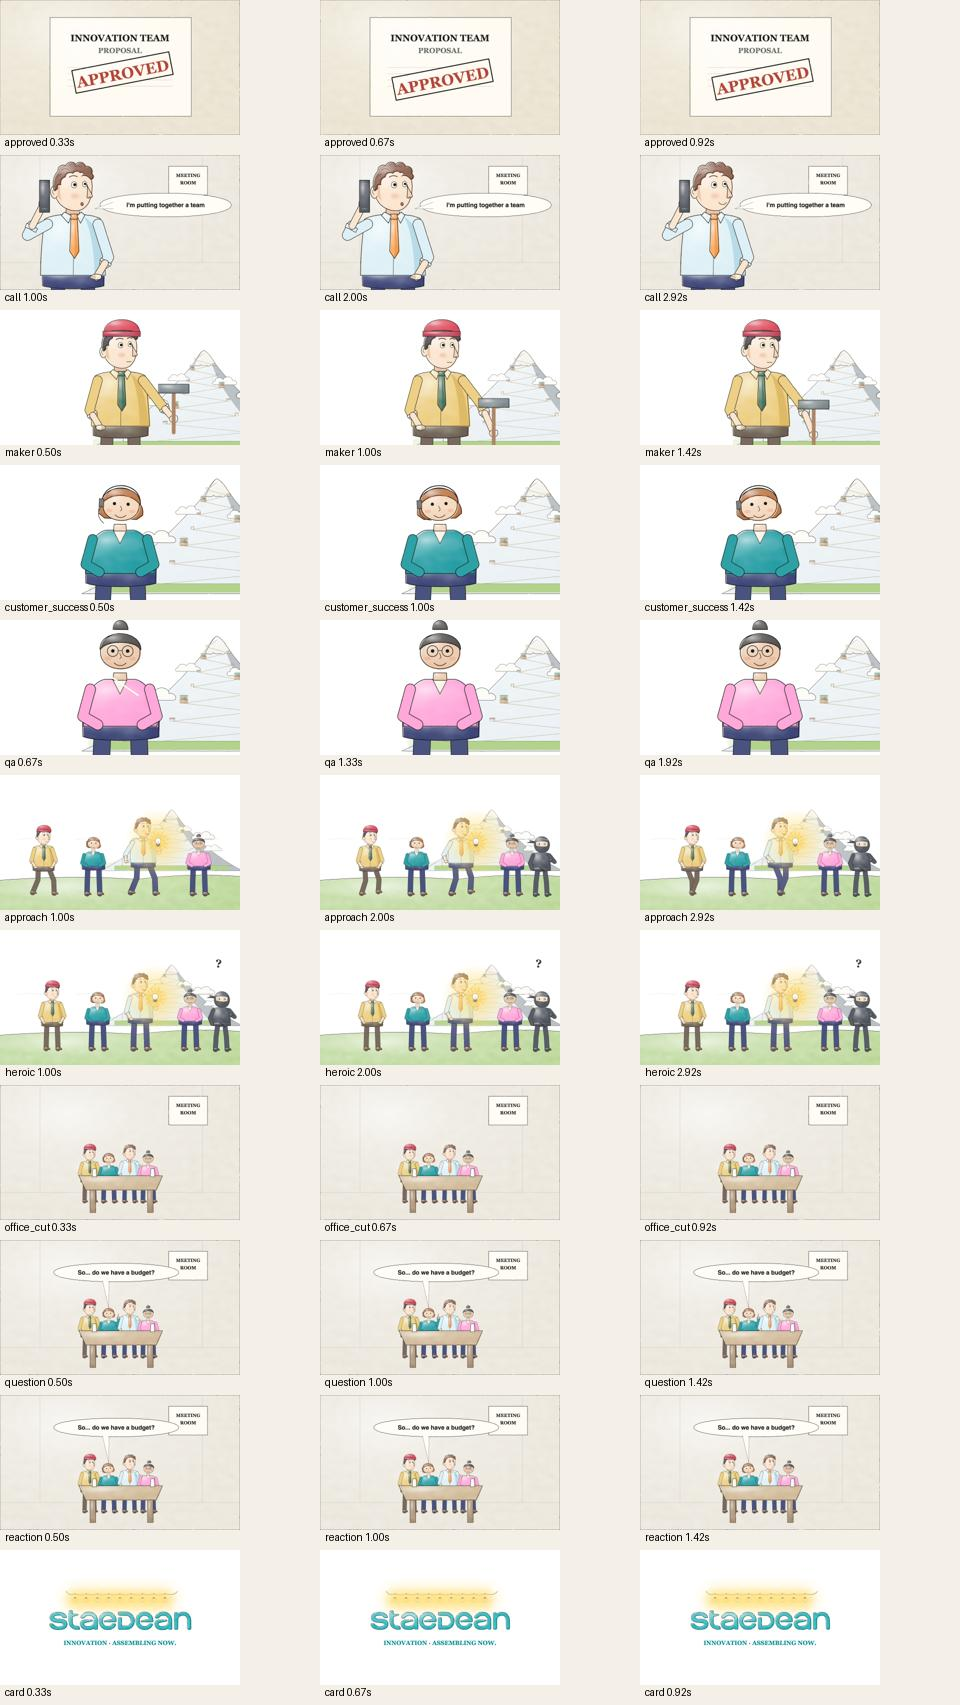
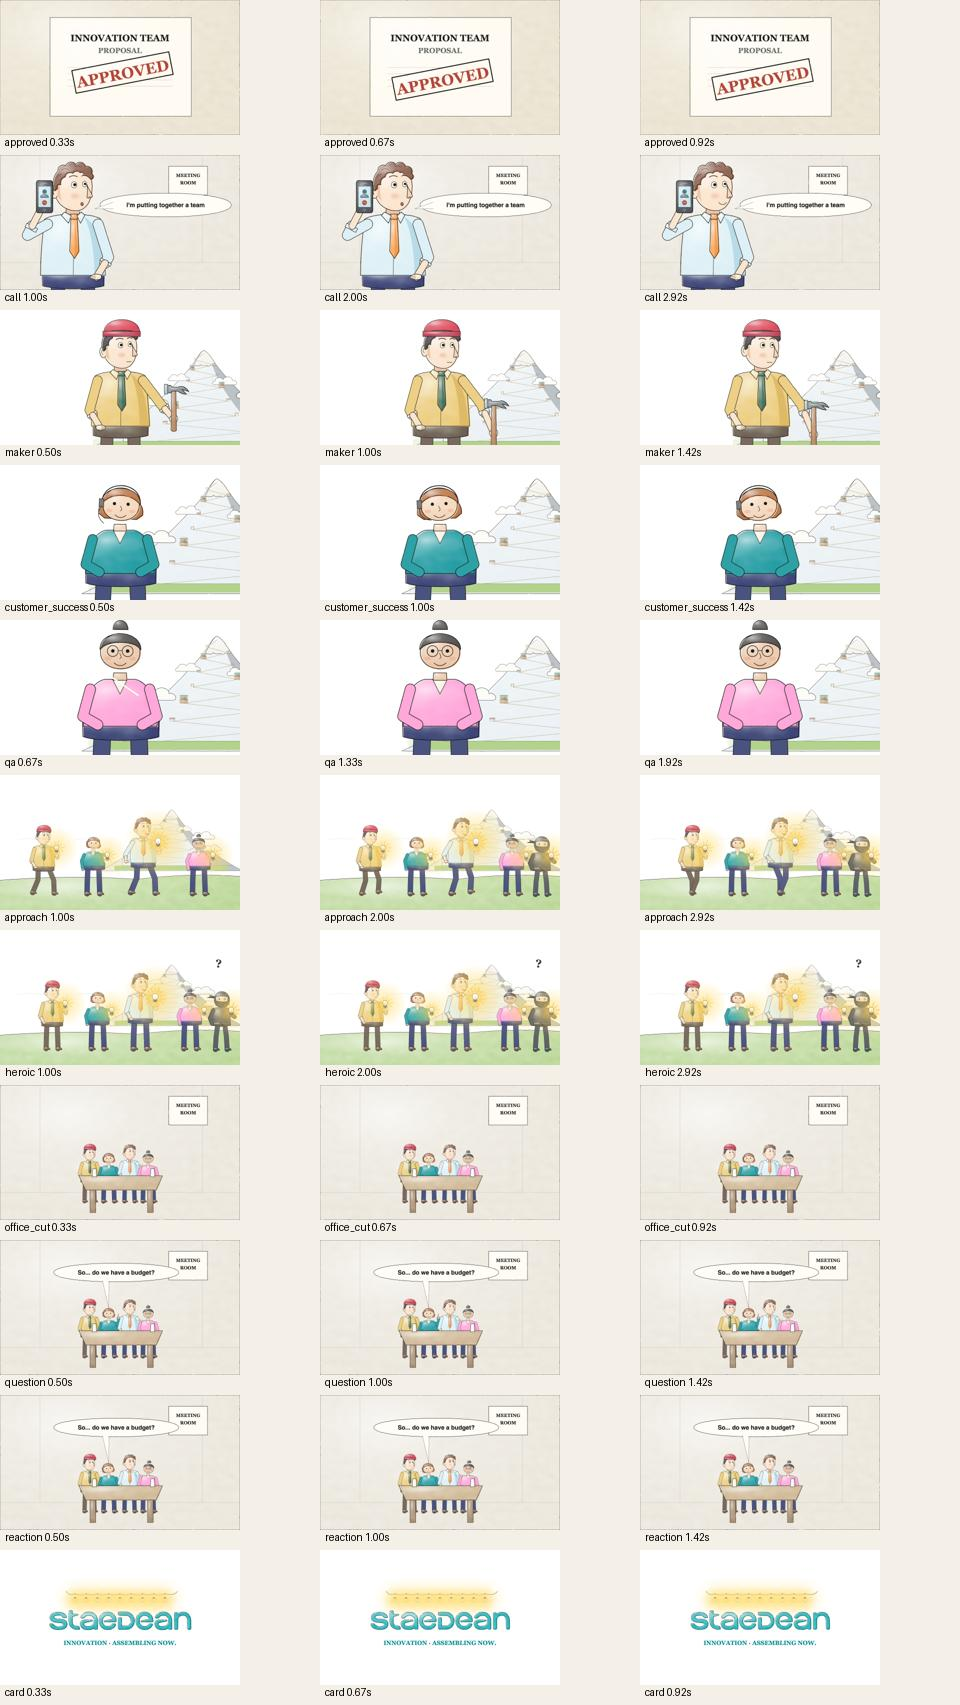
Give the Assembly cast bulbs and clarify phone and hammer props

diff --git a/work/the-assembly/director.py b/work/the-assembly/director.py
@@ -42,14 +42,15 @@ def group(art, x, y, scale=1, rot=0):
     return f'<g transform="translate({x},{y}) rotate({rot}) scale({scale})">{art}</g>'
 
 
-def official_full(role, x, y, scale=.6, look=(0, .1), mouth="smile", tilt=0, mic=0, arm="rest"):
+def official_full(role, x, y, scale=.6, look=(0, .1), mouth="smile", tilt=0, mic=0, arm="rest", carry_idea=False):
     """Existing canonical official upper-body rig plus matching standing legs."""
     hip = y - 370 * scale
     art = f'<g transform="translate({x},{hip}) scale({scale}) translate(0,-330)">{f.legs("stand")}</g>'
     art += props.official(
         x, hip, scale, cast.OFFICIALS[role], mouth=mouth, look=look,
         brows="puzzled" if mouth == "flat" else "neutral",
-        head_tilt=tilt, mic_angle=mic, arm=arm
+        head_tilt=tilt, mic_angle=mic,
+        arm="walk" if carry_idea else arm, carry_idea=carry_idea, swing=0
     )
     return art
 
@@ -128,10 +129,21 @@ def phone_call(t,n):
     arms = [(f.SHL,(-225,120),(-145,-35),"fist"),
             (f.SHR,(180,230),(120,330),"rest",True)]
     # Draw the phone in the PM's own local coordinates to keep it at his ear.
-    phone = (f.washed("M -165,-155 L -115,-155 L -115,5 L -165,5 Z",
+    # A rounded smartphone, with a visible lit call screen, speaker and button.
+    # Its wider silhouette distinguishes it from the previous narrow black slab.
+    phone = (f.washed("M -169,-153 Q -181,-153 -181,-140 L -181,-5 Q -181,8 -169,8 "
+                       "L -111,8 Q -99,8 -99,-5 L -99,-140 Q -99,-153 -111,-153 Z",
                        "#343944",sw=4,off=(2,1))
-             + f.path("M -153,-137 L -127,-137",sw=3,stroke="#a7bbc3")
-             + f.path("M -151,-12 L -129,-12",sw=3,stroke="#a7bbc3"))
+             + f.washed("M -172,-126 L -108,-126 L -108,-20 L -172,-20 Z",
+                         "#bedee5",sw=2,off=(1,1))
+             + f.path("M -151,-140 L -129,-140",sw=4,stroke="#b7c7ce")
+             + '<circle cx="-140" cy="-98" r="11" fill="#507c8b"/>'
+             + f.washed("M -160,-69 Q -159,-84 -140,-84 Q -121,-84 -120,-69 Z",
+                         "#507c8b",sw=2,off=(1,1))
+             + '<circle cx="-140" cy="-43" r="12" fill="#b44639"/>'
+             + f.path("M -147,-41 Q -140,-49 -133,-41",sw=3,stroke="#fffaf0")
+             + '<circle cx="-140" cy="-6" r="5" fill="none" stroke="#b7c7ce" stroke-width="2"/>'
+             + f.path("M -96,-112 L -96,-85",sw=3))
     art += f.pm_full(580,1570,1.6,arms=arms,front=phone,
                       mouth=mouth,look=(.6,-.1),brows="raised")
     art += f.bubble(1325,400,1050,230,(760,430),
@@ -145,9 +157,21 @@ def maker(t,n):
     hand_y=k(t,[(0,170),(.9,360),(1.4,370)])
     arms=[(f.SHL,(-170,230),(-110,330),"rest"),
           (f.SHR,(230,200),(300,hand_y),"fist",True)]
-    hammer=(f.path(f"M 300,{hand_y-150} L 300,{hand_y+75}",sw=21,stroke="#9c6b46")
-            +f.washed(f"M 215,{hand_y-195} L 385,{hand_y-195} L 385,{hand_y-145} L 215,{hand_y-145} Z",
-                       "#68757a",off=(3,2)))
+    # Distinct claw-hammer silhouette: wood handle, flat striking face and split claw.
+    # All geometry is local to the gripping hand, so it cannot drift during motion.
+    hammer = group(
+        f.washed("M -12,-163 L 12,-163 L 15,63 Q 0,76 -15,63 Z",
+                  "#ae774b",sw=3,off=(2,1))
+        + f.path("M -3,-140 L 2,50",sw=3,stroke="#d4a677")
+        + f.washed("M -39,-188 L -16,-188 L -10,-178 L 24,-178 "
+                    "Q 59,-193 85,-153 L 47,-165 L 71,-139 "
+                    "Q 42,-140 22,-156 L -10,-156 L -16,-146 L -39,-146 Z",
+                    "#68757a",sw=4,off=(2,1))
+        + f.washed("M -52,-194 L -34,-194 L -34,-140 L -52,-140 Z",
+                    "#aab8bd",sw=3,off=(1,1))
+        + f.path("M -14,-174 L 22,-174 Q 45,-183 58,-170",sw=3,stroke="#d6dfe0"),
+        300,hand_y)
+
     art += f.maker(960,985,.88,arms=arms,front=hammer,face=dict(
         look=(.6,-.1),brows="happy",mouth="flat",head_rot=k(t,[(0,-7),(1,3)])
     ))
@@ -182,15 +206,20 @@ def team(t,n,heroic=False):
     drift=100*(1-march)
     art+=f.maker(415-drift,y,.56,
                  face=dict(look=(1,-.2),brows="happy",mouth="smile"),
-                 phase=None if heroic else t*5)
-    art+=official_full("customer success",780-drift/2,y,.60,look=(.2,-.1),tilt=3)
+                 phase=None if heroic else t*5,
+                 arms=[(f.SHL,(-170,230),(-110,330),"rest"),
+                       (f.SHR,(200,190),(190,110),"cup",True)],
+                 front=f.bulb(190,58,s=1,b=.7,rays=4))
+    art+=official_full("customer success",780-drift/2,y,.60,look=(.2,-.1),tilt=3,carry_idea=True)
     art+=cast.pm(1120+drift/3,y,s=.64,pose="stand" if heroic else "walk",
                  phase=t*5,mood="delighted",bulb=1.0)
-    art+=official_full("qa",1520+drift,y,.60,look=(-.3,-.1))
+    art+=official_full("qa",1520+drift,y,.60,look=(-.3,-.1),carry_idea=True)
     # The villain has sneaked into the heroic shot. His distinctive
     # black outfit remains intact; the question mark sells the irony.
     if heroic or t > 1.4:
         art+=nlib.ninja(1770,957,0,(1850,680))
+        # The impostor copies the team: his bulb base meets the existing hand.
+        art+=f.bulb(1850,680-56*.6,s=.6,b=.7,rays=4)
         if heroic and t > .8:
             art+=f.text(1750,300,"?",size=90,fill="#343944")
     # Suspiciously elaborate theatrical wind lines; no imported Marvel motifs.

diff --git a/work/the-assembly/RENDER_REVIEW.md b/work/the-assembly/RENDER_REVIEW.md
@@ -8,16 +8,24 @@ Status: rendered first preview, awaiting Ken's creative review. Not an approved 
 - The-Assembly-v1.mp4: 1920 × 1080, 16:9, exactly 20.00 seconds.
 - 240 source drawings at 12 fps, encoded as 480 frames at 24 fps.
 - H.264, yuv420p, AAC mono at 44.1 kHz, fast-start MP4.
-- Size: 3,771,202 bytes.
[1 lines of base64/hex data omitted]
+- Size: 3,883,626 bytes.
[1 lines of base64/hex data omitted]
 
-## Current phone-call revision (v3)
+## Current bulbs and props revision (v4)
+
+Ken requested a bulb for everyone assembling, and clearer cellphone and hammer designs. All five lineup figures now hold a lit bulb: Maker, Customer Success, PM, QA and ninja. Bulbs remain attached to the carrying hands in approach and tableau shots, with restrained additional glow so faces remain readable. The ninja copies the ensemble as part of the approved impostor gag.
+
+The phone is now a wider rounded smartphone with a lit call screen, contact icon, red hang-up button, earpiece and home button. The hammer now has a flat striking face, split claw, metal head and wooden handle. Both props use local character coordinates to retain hand contact. Changes are confined to the Assembly director and documentation; shared rigs and older films are untouched.
+
+The current download is **The-Assembly-v4.mp4**. Inspected proof frames for the phone, hammer, approach and heroic tableau. Rerendered the four changed shots and decoded the complete movie successfully: 480 frames, 1920 × 1080, 24 fps, 20.00 seconds, H.264/AAC. Sound, gobbledygook, shot timing, budget ending and globe outro remain unchanged. For future edits, `team()` controls the five bulbs, `phone_call()` draws the smartphone, and `maker()` draws the claw hammer. `official_full(carry_idea=True)` selects the established carrying pose only for this film.
+
+## Phone-call revision (v3)
 
 Ken requested a close-up of the product guy saying “I'm putting together a team” in the house gobbledygook language. The PM now holds a phone at his ear in a three-second close-up (1–4 seconds), with the exact caption and animated mouth shapes. The existing `sfx.mumble(..., phone=True)` synthesizer supplies four nonsense phrases. `PHONE_PHRASES` in `director.py` is shared with `build.py`, aligning phrase windows and mouth motion. No external voice service or new dependency is involved.
 
 The phone call replaces the button shot. The approval stamp is now one second, and Maker/Customer Success introductions are 1.5 seconds each. QA and every later shot keep their previous times, so the ninja, budget reaction and globe outro are preserved. The riser is quieter under the call; the recruitment hits move to match the revised cuts.
 
-The current download is **The-Assembly-v3.mp4**. All changed shots were rerendered, the phone close-up was visually inspected, and the full MP4 decoded at 480 frames / 20.00 seconds. Speech windows measure approximately -19 to -21 dBFS RMS in the source mix; the encoded mix remains below clipping. This is technical audio verification; Ken should review the gobbledygook's performance by listening. The unchanged renderer output basename remains The-Assembly-v1.mp4 inside the repo.
+The v3 download was **The-Assembly-v3.mp4**. All changed shots were rerendered, the phone close-up was visually inspected, and the full MP4 decoded at 480 frames / 20.00 seconds. Speech windows measure approximately -19 to -21 dBFS RMS in the source mix; the encoded mix remains below clipping. This is technical audio verification; Ken should review the gobbledygook's performance by listening. The unchanged renderer output basename remains The-Assembly-v1.mp4 inside the repo.
 
 ## Globe outro correction
 

diff --git a/work/the-assembly/storyboard.md b/work/the-assembly/storyboard.md
@@ -8,7 +8,7 @@
 Our innovation team gets the green light, assembles like an absurdly important superhero squad, then discovers that assembling a team and running one are two different things.
 
 ## Story without sound
-A huge APPROVED stamp lands. The PM phones a colleague: “I’m putting together a team,” conveyed by a caption and gobbledygook speech. Maker, Customer Success and QA respond in rapid theatrical shots. They stand together in an iconic windswept mountain tableau under a glowing idea. Hard cut to a cramped meeting table and a hand raised to ask about budget. The group looks at the PM, who loses his triumphant expression.
+A huge APPROVED stamp lands. The PM phones a colleague: “I’m putting together a team,” conveyed by a caption and gobbledygook speech. Maker, Customer Success and QA respond in rapid theatrical shots. They stand together in an iconic windswept mountain tableau, each holding a glowing idea bulb—including the ninja impostor. Hard cut to a cramped meeting table and a hand raised to ask about budget. The group looks at the PM, who loses his triumphant expression.
 
 ## Beat sheet (20 seconds exactly)
 
@@ -20,7 +20,7 @@ A huge APPROVED stamp lands. The PM phones a colleague: “I’m putting togethe
 | 5.5–7.0 | Customer Success flips headset mic down like fighter-pilot visor. | Radio chirp, heroic sting |
 | 7.0–9.0 | QA adjusts glasses, glare flashes across lenses. | Tiny metallic 'shing' |
 | 9.0–12.0 | Silhouettes approach through theatrical *smoke* (not dense wash filter), Mount STAEDEAN in distance; PM and Maker join the others. | Ridiculously epic original orchestral swell |
-| 12.0–15.0 | Freeze-like heroic tableau: PM front, bright idea bulb; the group strikes earnest poses, holding a beat too long. | Music reaches ridiculous peak |
+| 12.0–15.0 | Freeze-like heroic tableau: PM front; all five figures hold glowing idea bulbs and strike earnest poses, holding a beat too long. | Music reaches ridiculous peak |
 | 15.0–16.0 | Smash cut to painfully ordinary, too-small office table, all three teammates plus PM squeezed into frame. | Music cuts dead; chair squeak |
 | 16.0–17.5 | Hand goes up. Caption/speech balloon: 'So... do we have a budget?' | One mundane voice, optional; readable silently |
 | 17.5–19.0 | Everyone very slowly turns to look at PM. PM's expression collapses. | Clock tick, awkward silence |

diff --git a/work/the-assembly/README.md b/work/the-assembly/README.md
@@ -32,3 +32,7 @@ The current end line is **"So... do we have a budget?"**, followed by the establ
 ## Phone-call revision
 
 The approval stamp now runs 0–1 seconds, followed by a 1–4-second PM phone close-up captioned “I’m putting together a team.” The existing `sfx.mumble` voice supplies the gobbledygook. `PHONE_PHRASES` in `director.py` supplies the phrase timing to both mouth animation and `build.py` audio, so changes remain aligned. Maker and Customer Success introductions are 1.5 seconds each; all shots from QA onward retain their previous times, including the globe outro at 19–20 seconds.
+
+## Assembly bulbs and readable props (v4)
+
+All five figures hold an illuminated bulb during the assembly: PM, Maker, Customer Success, QA, and the ninja impostor. `team()` uses the existing bulb and carrying-arm helpers; `official_full(carry_idea=True)` enables the established official carrying pose without editing shared rigs. The PM’s phone has a rounded smartphone silhouette, call screen, speaker and hang-up control. The Maker’s hammer has a steel striking face, split claw and wooden handle. Both props remain in their character’s local coordinate system to preserve contact through movement. Timing, sound and the globe outro are unchanged.
